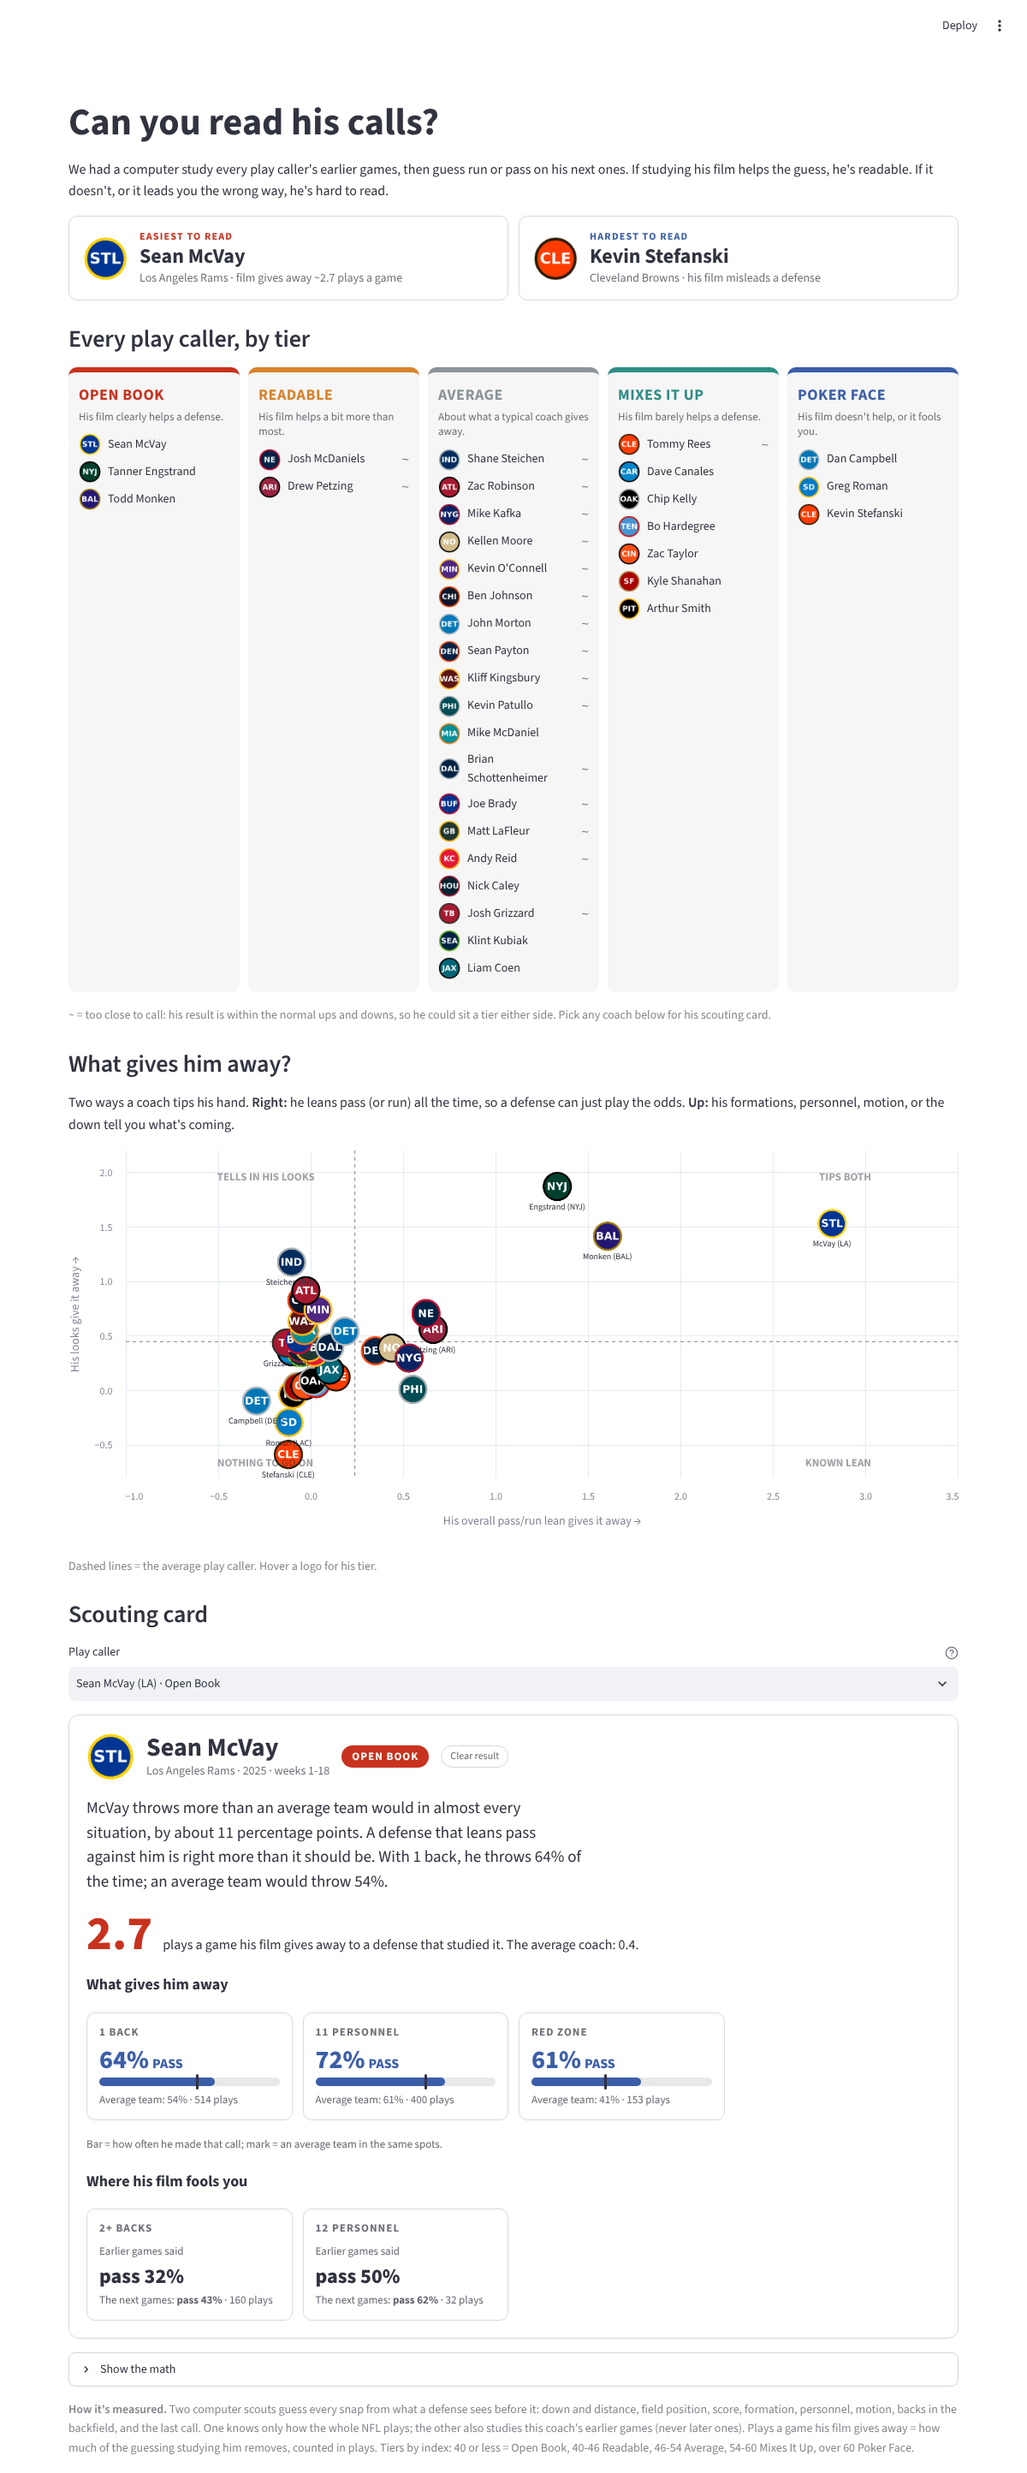
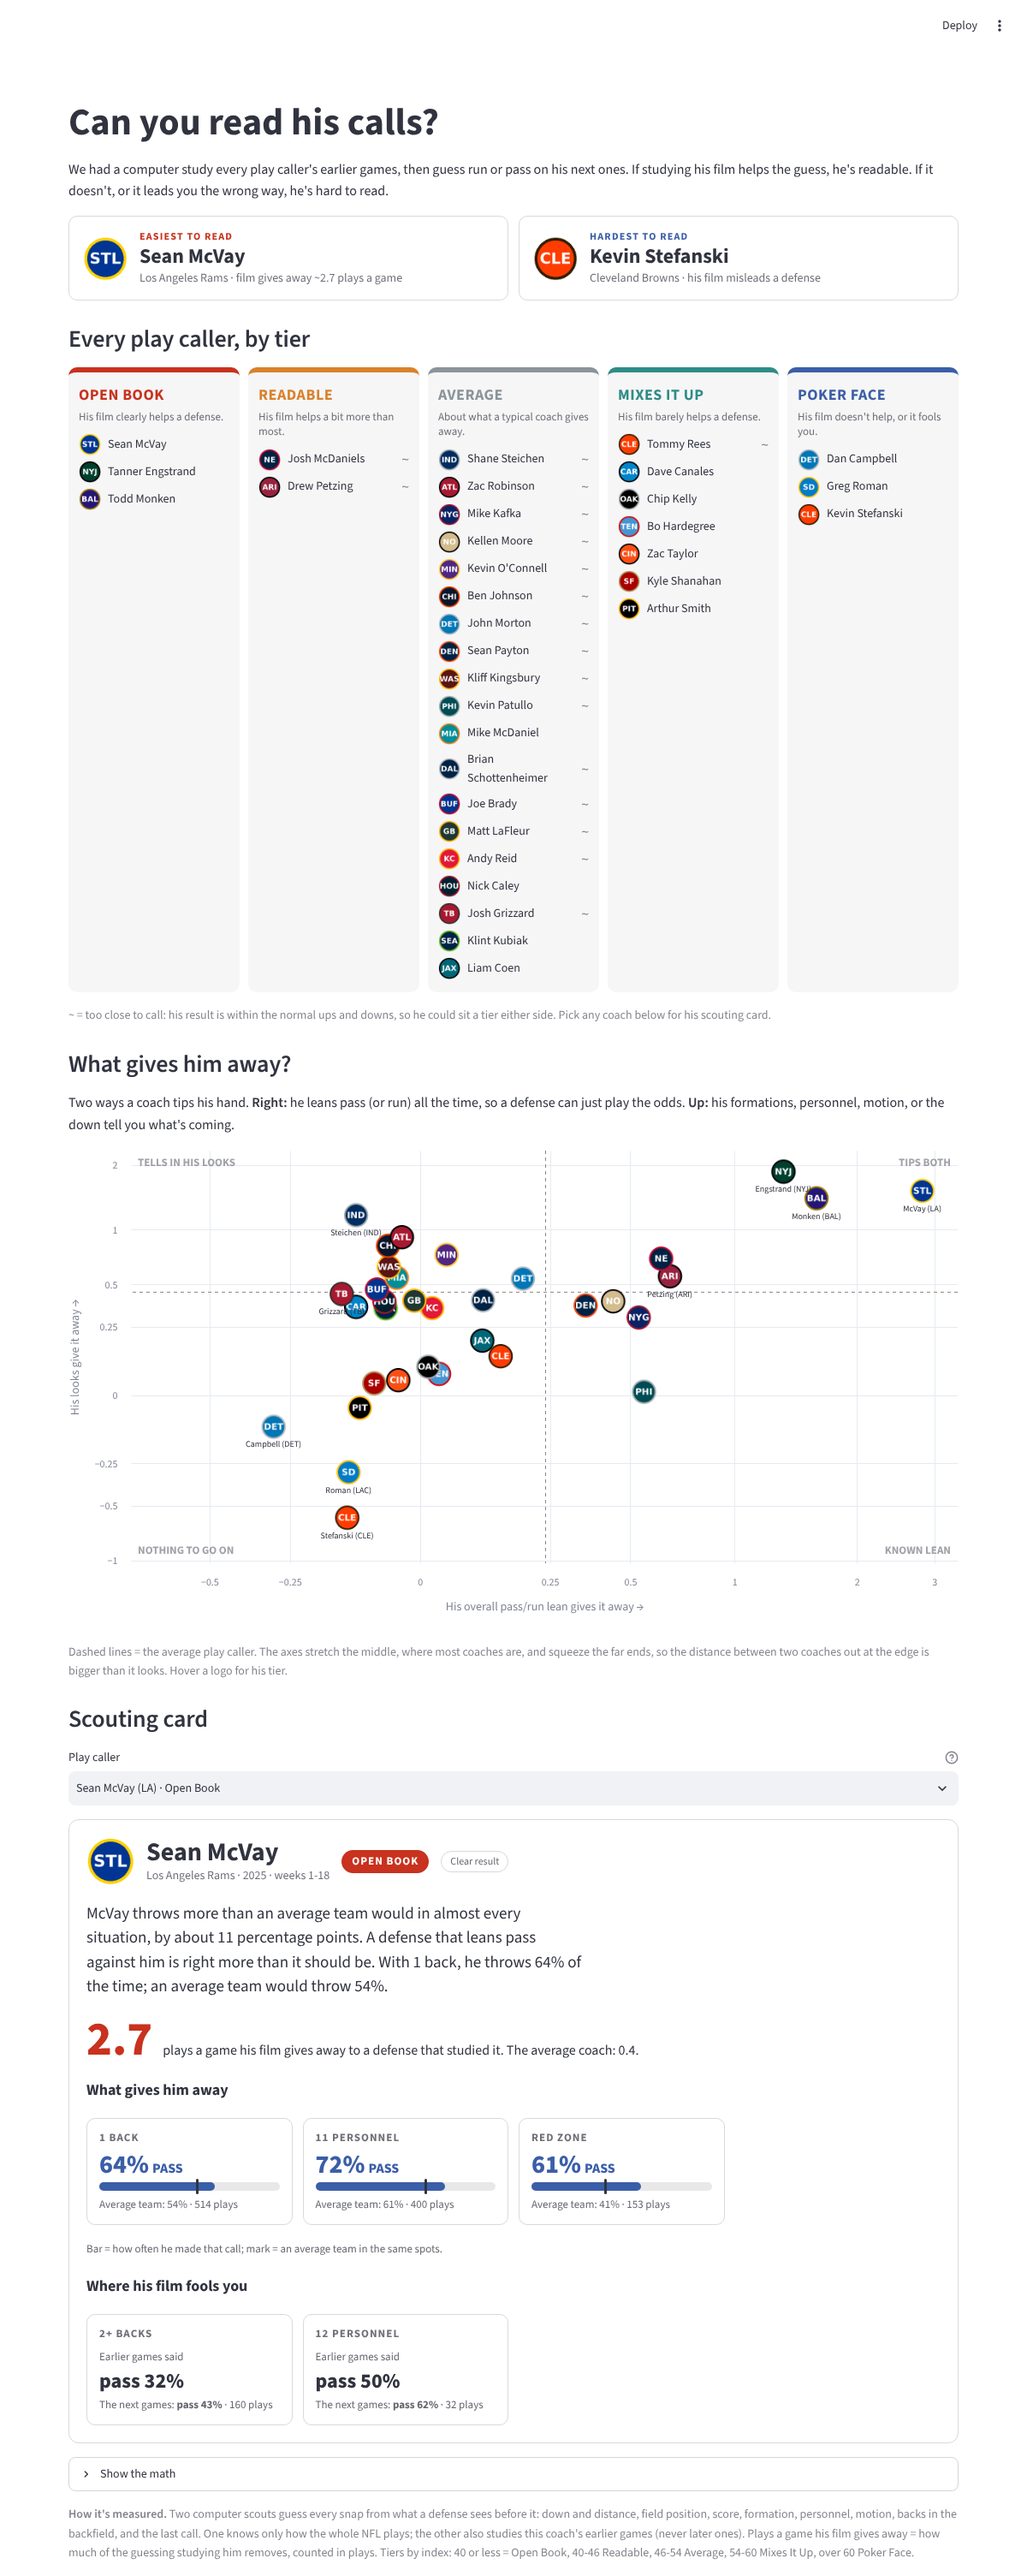
At a glance: spread out the crowded four-box chart
Symmetric log axes (linear near the average, compressed far out) so the
pack of coaches near 0 spreads out while outliers like McVay stay on the
chart; taller chart, smaller logos, and room at the edges for the corner
names. Refreshed screenshots.

Claude-Session: https://claude.ai/code/session_01Aqe4Ce9chTpUW4ZyLj4MPT

diff --git a/page_unpredictability.py b/page_unpredictability.py
@@ -474,6 +474,7 @@ def shade_index_balance(col):
 
 
 # ---- At a glance view -----------------------------------------------------------------------------------------
+FOUR_BOX_LINEAR = 0.3   # four-box axes are linear within about ±this many bits per 100 snaps, compressed beyond
 TIER_COLORS = {"Open Book": "#C8321E", "Readable": "#D9822B", "Average": "#8A949A", "Mixes It Up": "#2F8C86",
                "Poker Face": "#3B5EA8"}
 GLANCE_CSS = """<style>
@@ -545,21 +546,44 @@ def board_html(g: pd.DataFrame) -> str:
 
 
 def four_box(g: pd.DataFrame) -> alt.LayerChart:
-    """Lean part (across) vs look part (up), with the four corners named."""
+    """Lean part (across) vs look part (up), with the four corners named. Most coaches sit near 0 on both and a few sit
+    far out, so both axes use a symmetric log scale: linear near 0 (the pack spreads out), compressed far from it (the
+    outliers stay on the chart without squeezing everyone else into a corner)."""
     x, y = "Lean part", "Look part"
-    pad_x, pad_y = (g[x].max() - g[x].min()) * 0.08 or 0.01, (g[y].max() - g[y].min()) * 0.08 or 0.01
-    x0, x1, y0, y1 = g[x].min() - pad_x, g[x].max() + pad_x, g[y].min() - pad_y, g[y].max() + pad_y
-    chart = logo_scatter(g, x, y, "His overall pass/run lean gives it away →", "His looks give it away →", ".1f", ".1f",
-                         ref=(float(g[x].mean()), float(g[y].mean())))
+    g = g.dropna(subset=[x, y])
+    pad = lambda s: (s.max() - s.min()) * 0.18 or 0.1   # room for the corner names beyond the outermost logos
+    x0, x1, y0, y1 = g[x].min() - pad(g[x]), g[x].max() + pad(g[x]), g[y].min() - pad(g[y]), g[y].max() + pad(g[y])
+    ticks = [-2, -1, -0.5, -0.25, 0, 0.25, 0.5, 1, 2, 3, 4, 6]
+    sx = alt.Scale(type="symlog", constant=FOUR_BOX_LINEAR, domain=[x0, x1], nice=False)
+    sy = alt.Scale(type="symlog", constant=FOUR_BOX_LINEAR, domain=[y0, y1], nice=False)
+    ax = lambda lo, hi, title: alt.Axis(values=[t for t in ticks if lo <= t <= hi], format=".2~f", title=title, grid=True)
+    # Name only the points away from the pack; hover names the rest.
+    rank = lambda s: s.rank(pct=True)
+    g = g.assign(show_label=(rank(g[x]) - 0.5).abs().ge(0.4) | (rank(g[y]) - 0.5).abs().ge(0.4))
+    base = alt.Chart(g).encode(
+        x=alt.X(f"{x}:Q", scale=sx, axis=ax(x0, x1, "His overall pass/run lean gives it away →")),
+        y=alt.Y(f"{y}:Q", scale=sy, axis=ax(y0, y1, "His looks give it away →")), tooltip=TIP)
+    mx, my = float(g[x].mean()), float(g[y].mean())
+    rules = [alt.Chart(pd.DataFrame({"v": [mx]})).mark_rule(color="#888780", strokeDash=[4, 4]).encode(
+                 x=alt.X("v:Q", scale=sx)),
+             alt.Chart(pd.DataFrame({"v": [my]})).mark_rule(color="#888780", strokeDash=[4, 4]).encode(
+                 y=alt.Y("v:Q", scale=sy))]
     corners = pd.DataFrame({"x": [x1, x0, x1, x0], "y": [y1, y1, y0, y0], "align": ["right", "left", "right", "left"],
                             "base": ["top", "top", "bottom", "bottom"],
                             "t": ["TIPS BOTH", "TELLS IN HIS LOOKS", "KNOWN LEAN", "NOTHING TO GO ON"]})
     labels = [alt.Chart(corners.iloc[[i]]).mark_text(align=r.align, baseline=r.base, dx=-8 if r.align == "right" else 8,
                                                      dy=8 if r.base == "top" else -8, fontSize=13, fontWeight="bold",
                                                      opacity=0.45, color=cm.theme_ink())
-              .encode(x=alt.X("x:Q", scale=alt.Scale(zero=False)), y=alt.Y("y:Q", scale=alt.Scale(zero=False)), text="t:N")
+              .encode(x=alt.X("x:Q", scale=sx), y=alt.Y("y:Q", scale=sy), text="t:N")
               for i, r in enumerate(corners.itertuples())]
-    return alt.layer(chart, *labels)
+    points = [
+        base.transform_filter("datum.logo == ''").mark_circle(size=380).encode(
+            color=alt.Color("color:N", scale=None), opacity=alt.Opacity("opacity:Q", scale=None)),
+        base.mark_image(width=30, height=30).encode(url="logo:N", opacity=alt.Opacity("opacity:Q", scale=None)),
+        base.transform_filter("datum.show_label").mark_text(dy=21, fontSize=10, color=cm.theme_ink()).encode(
+            text="label:N", opacity=alt.Opacity("opacity:Q", scale=None)),
+    ]
+    return alt.layer(*rules, *labels, *points).properties(height=560)
 
 
 def card_html(r: pd.Series, tl: list[dict], ml: list[dict], avg_given: float, season: int) -> str:
@@ -614,7 +638,9 @@ def render_glance(ranked: pd.DataFrame, d_snaps: pd.DataFrame, clues: list[str],
     st.markdown("Two ways a coach tips his hand. **Right:** he leans pass (or run) all the time, so a defense can just "
                 "play the odds. **Up:** his formations, personnel, motion, or the down tell you what's coming.")
     st.altair_chart(four_box(g), width="stretch")
-    st.caption("Dashed lines = the average play caller. Hover a logo for his tier.")
+    st.caption("Dashed lines = the average play caller. The axes stretch the middle, where most coaches are, and squeeze "
+               "the far ends, so the distance between two coaches out at the edge is bigger than it looks. Hover a "
+               "logo for his tier.")
 
     st.subheader("Scouting card")
     order = g.sort_values("Unpredictability index")
